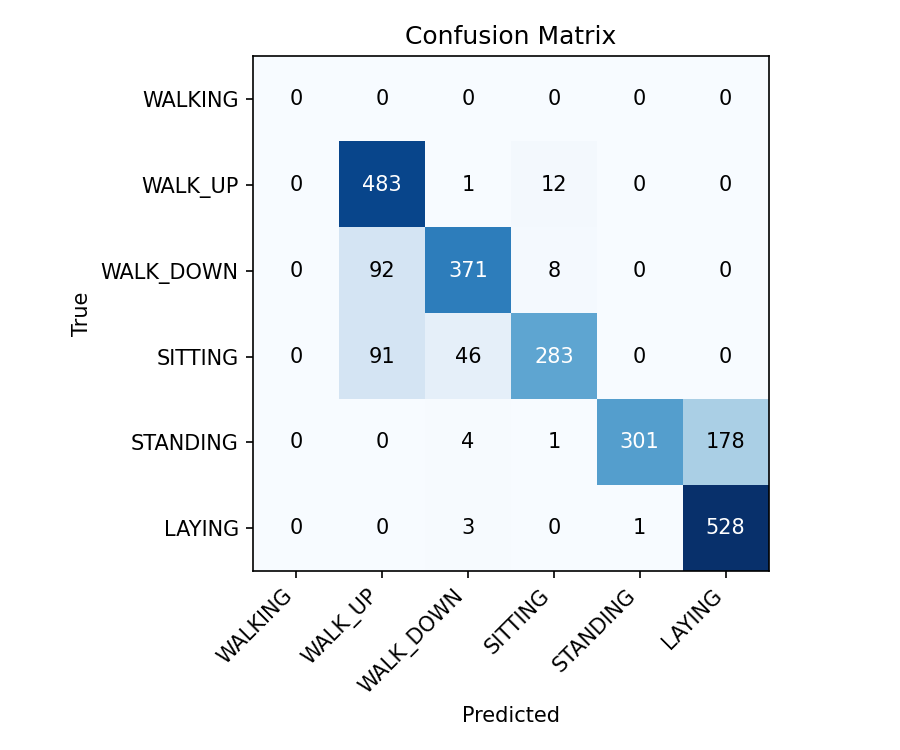
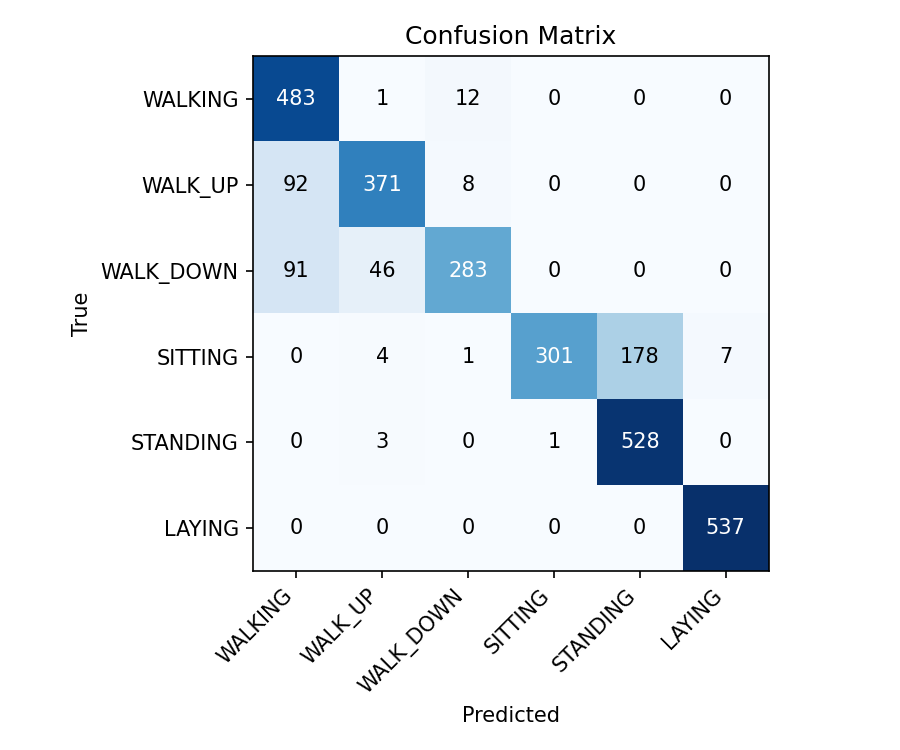
fix: save_confusion_matrix теряла последний класс
В save_confusion_matrix labels брались как list(range(len(class_names))).
Если y_true содержит метки не от нуля (в HAR классы [1..6]), то row 0
получал нулевой класс, а самый последний класс (LAYING=6) вообще не
попадал в матрицу. Теперь labels = sorted(np.unique(y_true ∪ y_pred)).

ЛР-4/6/7 не затронуты, у них y проходит через label_encode и метки
совпадают с range(K). ЛР-5 перерисована.

diff --git a/mlcore/metrics/report.py b/mlcore/metrics/report.py
@@ -39,9 +39,14 @@ def save_confusion_matrix(
     class_names: list[str],
     save_path: str | Path,
 ) -> plt.Figure:
-    """Compute, plot, save, and return confusion matrix figure."""
-    labels = list(range(len(class_names)))
-    cm = confusion_matrix(y_true, y_pred, labels=labels)
+    """Compute, plot, save, and return confusion matrix figure.
+
+    *class_names* должны идти в том же порядке, что и sorted(unique(y_true)).
+    """
+    y_true_arr = np.asarray(y_true).ravel()
+    y_pred_arr = np.asarray(y_pred).ravel()
+    labels = sorted(np.unique(np.concatenate([y_true_arr, y_pred_arr])).tolist())
+    cm = confusion_matrix(y_true_arr, y_pred_arr, labels=labels)
     fig = plot_confusion_matrix(cm, class_names=class_names)
     fig.savefig(save_path, dpi=150)
     plt.close(fig)
